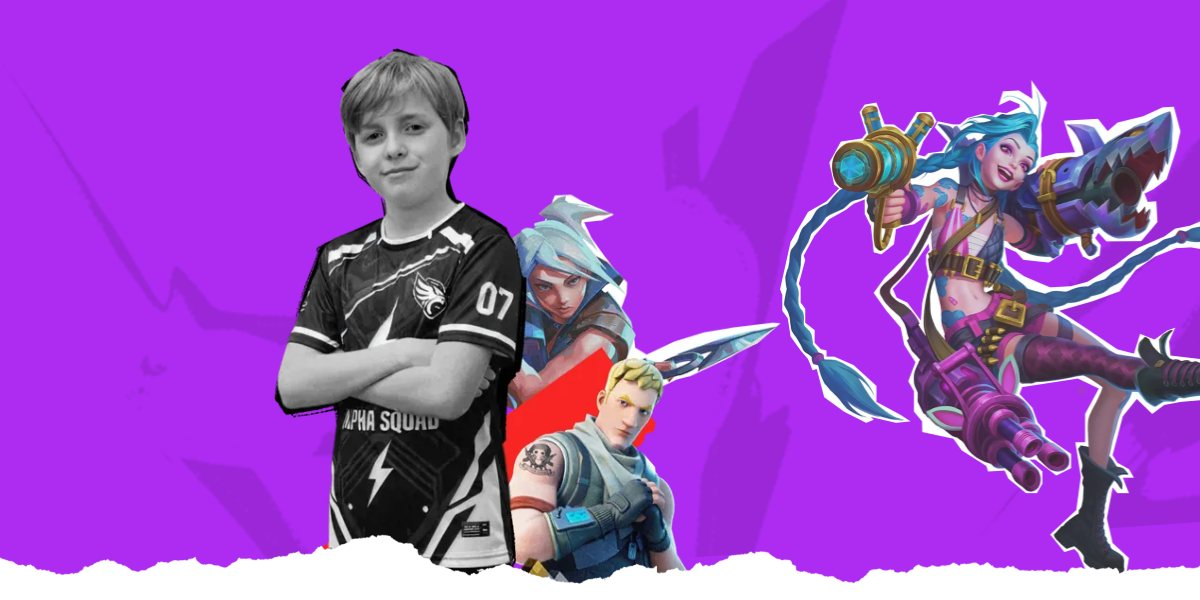
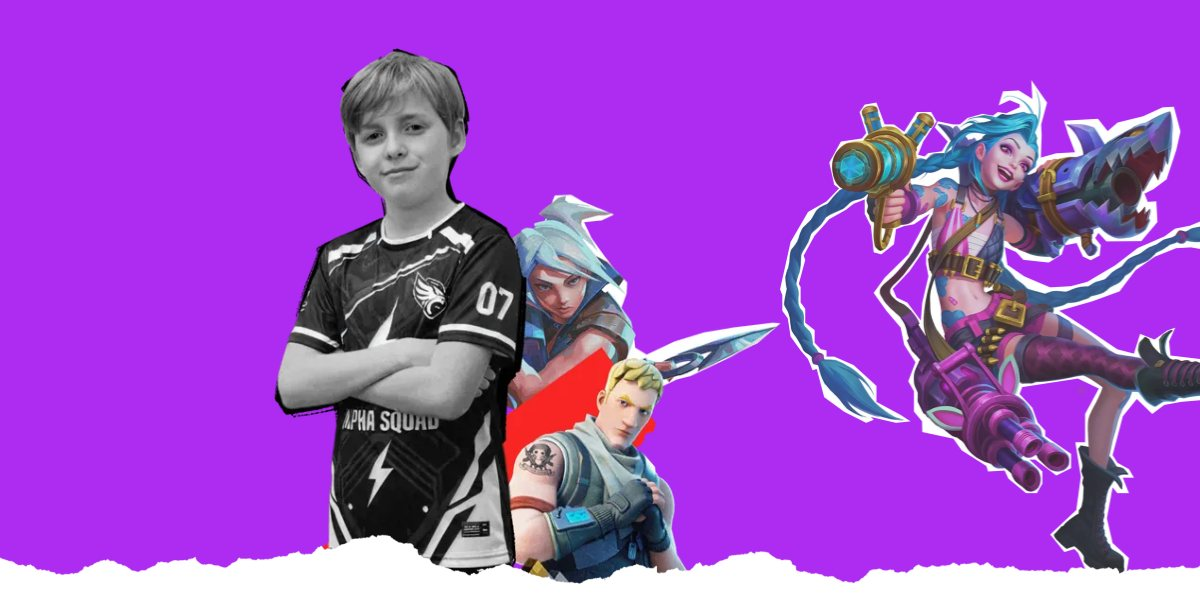
Season 01: remove the brush texture from the purple grounds
Claude-Session: https://claude.ai/code/session_01543UG4M7Fzr8MEXfx9Y1Hb

diff --git a/app/crew/[code]/crew.html b/app/crew/[code]/crew.html
@@ -45,7 +45,6 @@ a:focus-visible,button:focus-visible,summary:focus-visible{outline:3px solid var
 .nav .logo{display:inline-flex;align-items:center;min-height:44px}
 .nav .logo img{height:20px;width:auto}
 .nav .mini{background:var(--lime);color:var(--black);font:700 14px var(--body);padding:12px 16px;text-decoration:none;min-height:44px;display:inline-flex;align-items:center}
-.brush{position:absolute;z-index:0;left:50%;top:44%;width:min(1500px,170vw);transform:translate(-50%,-50%) rotate(-4deg);opacity:.1;filter:brightness(0);pointer-events:none}
 .hero-in{position:relative;z-index:4;text-align:center;padding-block:12px 0}
 .chip{display:inline-block;background:transparent;color:var(--white);box-shadow:inset 0 0 0 2px var(--white);font:800 12px/1 var(--body);letter-spacing:.14em;text-transform:uppercase;padding:8px 12px;transform:skewX(-12deg)}
 .chip span{display:inline-block;transform:skewX(12deg)}
@@ -191,7 +190,6 @@ a:focus-visible,button:focus-visible,summary:focus-visible{outline:3px solid var
 <body>
 <!--IF:test--><div class="pv" role="region" aria-label="Test mode">Test mode. No real charges.</div><!--/IF:test-->
 <header class="hero">
-<img class="brush" src="/images/season1/s1-brush.webp" alt="" width="2044" height="600">
 <div class="wrap"><nav class="nav" aria-label="EKUZO"><a class="logo" href="/"><img src="/images/ekuzo-logo.svg" alt="EKUZO" width="107" height="21"></a><a class="mini join" href="/season1/join/signup">Join the team</a></nav></div>
 <div class="hero-in wrap">
 <p class="chip"><span><!--IF:named-->An invite from {{NAME}}&rsquo;s family<!--/IF--><!--IFNOT:named-->Season 01<!--/IFNOT--></span></p>

diff --git a/app/season1/join/join.html b/app/season1/join/join.html
@@ -40,7 +40,6 @@ a:focus-visible,button:focus-visible,summary:focus-visible{outline:3px solid var
 .nav .logo{display:inline-flex;align-items:center;min-height:44px}
 .nav .logo img{height:20px;width:auto}
 .nav .mini{background:var(--lime);color:var(--black);font:700 14px var(--body);padding:12px 16px;text-decoration:none;min-height:44px;display:inline-flex;align-items:center}
-.brush{position:absolute;z-index:0;left:50%;top:44%;width:min(1500px,170vw);transform:translate(-50%,-50%) rotate(-4deg);opacity:.1;filter:brightness(0);pointer-events:none}
 .hero-in{position:relative;z-index:4;text-align:center;padding-block:12px 0}
 .chip{display:inline-block;background:transparent;color:var(--white);box-shadow:inset 0 0 0 2px var(--white);font:800 12px/1 var(--body);letter-spacing:.14em;text-transform:uppercase;padding:8px 12px;transform:skewX(-12deg)}
 .chip span{display:inline-block;transform:skewX(12deg)}
@@ -181,7 +180,6 @@ a:focus-visible,button:focus-visible,summary:focus-visible{outline:3px solid var
 <body>
 <!--IF:test--><div class="pv" role="region" aria-label="Test mode">Test mode. No real charges.</div><!--/IF:test-->
 <header class="hero">
-<img class="brush" src="/images/season1/s1-brush.webp" alt="" width="2044" height="600">
 <div class="wrap"><nav class="nav" aria-label="EKUZO"><a class="logo" href="/"><img src="/images/ekuzo-logo.svg" alt="EKUZO" width="107" height="21"></a><!--IF:open--><a class="mini" href="{{SIGNUP}}">Save their spot</a><!--/IF:open--></nav></div>
 <div class="hero-in wrap">
 <p class="chip"><span>Season 01</span></p>

diff --git a/app/season1/join/welcome/welcome.html b/app/season1/join/welcome/welcome.html
@@ -128,7 +128,6 @@ a:focus-visible,button:focus-visible,summary:focus-visible{outline:2px solid var
 @font-face{font-family:"Tungsten Narrow";src:url("/fonts/TungstenNarrow-Black.otf") format("opentype");font-weight:900;font-display:swap}
 :root{--violet:#AE2CF2;--lime:#E0FF4F;--black:#000}
 .whero{background:var(--violet);position:relative;overflow:hidden;isolation:isolate}
-.whero:before{content:"";position:absolute;z-index:-1;inset:0;background:url("/images/season1/s1-brush.webp") center 40%/min(1500px,190vw) auto no-repeat;opacity:.1;filter:brightness(0);pointer-events:none}
 .whero .d{font-weight:900}
 .wback{color:#fff;text-decoration:none;font-size:24px;display:inline-flex;align-items:center;justify-content:center;min-width:44px;min-height:44px;margin-left:-12px}
 .wchip{display:inline-block;color:#fff;box-shadow:inset 0 0 0 2px #fff;font:800 12px/1 var(--body);letter-spacing:.14em;text-transform:uppercase;padding:8px 12px;transform:skewX(-12deg)}

diff --git a/app/season1/join/signup/signup.html b/app/season1/join/signup/signup.html
@@ -140,7 +140,6 @@ a:focus-visible,button:focus-visible,summary:focus-visible{outline:2px solid var
 :root{--violet:#AE2CF2;--lime:#E0FF4F}
 html,body,.app{background:var(--violet)}
 .app{position:relative;max-width:none;overflow:hidden;isolation:isolate}
-.app:before{content:"";position:absolute;z-index:-1;inset:0;background:url("/images/season1/s1-brush.webp") center 22%/min(1500px,190vw) auto no-repeat;opacity:.1;filter:brightness(0);pointer-events:none}
 .nav{background:transparent;border:0}
 .nav .back{color:#fff}
 main{padding:4px 12px 48px}

diff --git a/WORKLOG.md b/WORKLOG.md
@@ -5,6 +5,13 @@
 **Format:** Most recent entry at the top. Include your name, date, and what changed.
 
 ---
+## Aaron (via Claude), October 27, 2026 (no brush texture)
+
+- Removed the black brush texture from the purple grounds (season page, invite, signup, welcome) and
+  deleted `public/images/season1/s1-brush.webp`: the low-res source read as a rendering mistake.
+  Email header art regenerated without it (`public/images/season1/email/header-crew@2x.jpg`).
+
+---
 ## Aaron (via Claude), October 27, 2026 (Season 01 funnel QA + one look across all four screens)
 
 QA run: 14 screen states (season page open / after jersey cutoff / closed; signup open / invite / closed;
